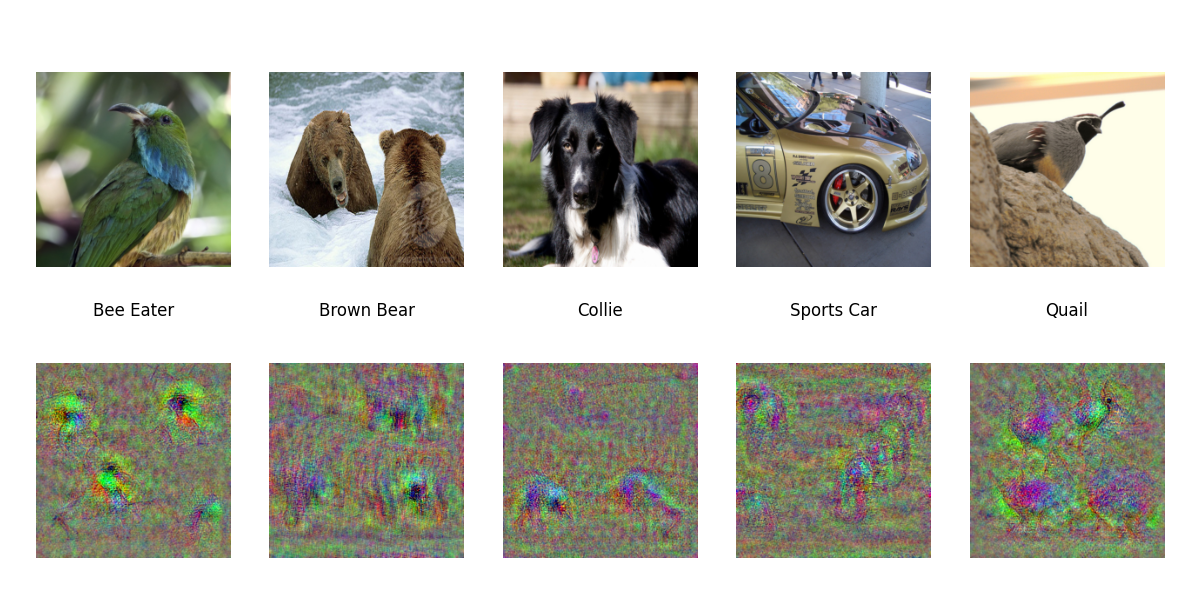
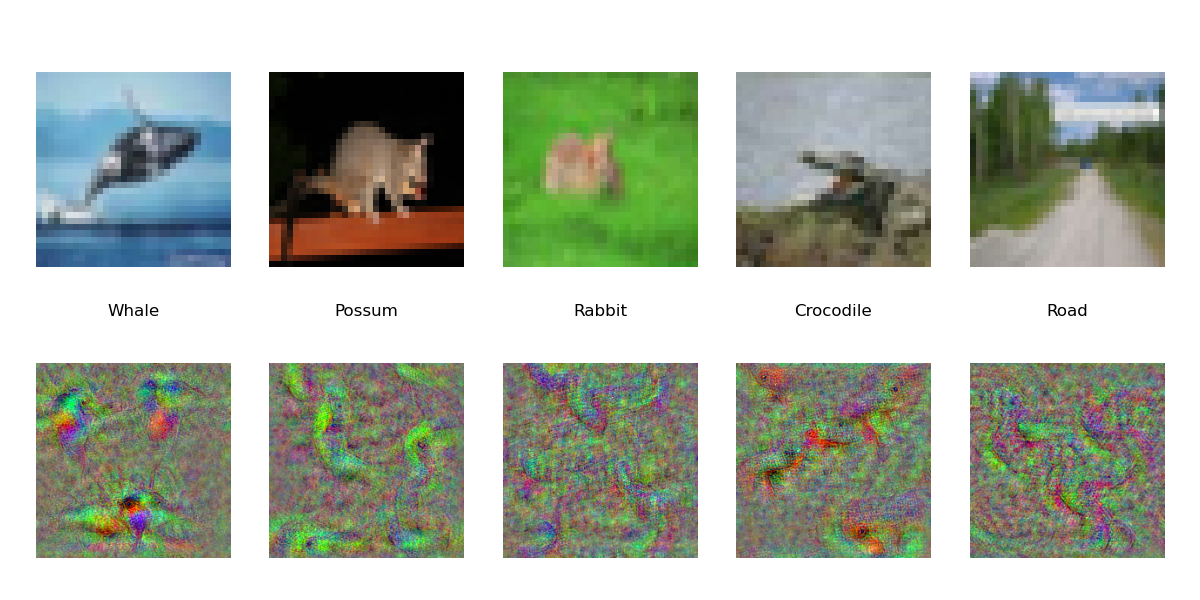
Cleanup, CIFAR downloading, CIFAR integration with viz

diff --git a/src/class_visualization.py b/src/class_visualization.py
@@ -133,47 +133,47 @@ class ClassVisualization:
                     plt.savefig('visualization/class_visualization_iter_{}'.format(t + 1), bbox_inches='tight')
         return deprocess(img.cpu())
 
-def run_program(prune_config, global_prune=False, suffix="Full", verbose=False):
-    # Check for GPU support
-    device = torch.device("cuda" if torch.cuda.is_available() else "cpu")
-    model = models.squeezenet1_1(weights='SqueezeNet1_1_Weights.DEFAULT').to(device)
-    pruner = Pruner(model, prune_config, global_prune)
-    model = pruner.prune_model()
-    for param in model.parameters():
-        param.requires_grad = False
+    def run_program(self, prune_config, global_prune=False, suffix="Full", verbose=False):
+        # Check for GPU support
+        device = torch.device("cuda" if torch.cuda.is_available() else "cpu")
+        model = models.squeezenet1_1(weights='SqueezeNet1_1_Weights.DEFAULT').to(device)
+        pruner = Pruner(model, prune_config, global_prune)
+        model = pruner.prune_model()
+        for param in model.parameters():
+            param.requires_grad = False
 
-    cv = ClassVisualization()
-    X, y, labels, class_names = load_images(num=5, deterministic=True)
-    visuals = []
-    for target in tqdm(y, desc="Creating class visualization", leave=True):
-        out = cv.create_class_visualization(target, class_names, model, generate_plots=False)
-        visuals.append(out)
+        cv = ClassVisualization()
+        X, y, labels, class_names = load_images(num=5, deterministic=True)
+        visuals = []
+        for target in tqdm(y, desc="Creating class visualization", leave=True):
+            out = cv.create_class_visualization(target, class_names, model, generate_plots=False)
+            visuals.append(out)
 
-    # Create a figure and a subplot with 2 rows and 4 columns
-    fig, ax = plt.subplots(2, 5, figsize=(12, 6))
-    fig.subplots_adjust(left=0.03, right=0.97, bottom=0.03, top=0.92, wspace=0.2, hspace=0.2)
+        # Create a figure and a subplot with 2 rows and 4 columns
+        fig, ax = plt.subplots(2, 5, figsize=(12, 6))
+        fig.subplots_adjust(left=0.03, right=0.97, bottom=0.03, top=0.92, wspace=0.2, hspace=0.2)
 
-    # Loop over the subplots and plot an image in each one
-    for i in tqdm(range(2), desc="Creating plots", leave=True):
-        for j in range(5):
-            # Load image
-            if i == 0:
-                image = X[j]
-            elif i == 1:
-                image = visuals[j]
+        # Loop over the subplots and plot an image in each one
+        for i in tqdm(range(2), desc="Creating plots", leave=True):
+            for j in range(5):
+                # Load image
+                if i == 0:
+                    image = X[j]
+                elif i == 1:
+                    image = visuals[j]
 
-            # Plot the image in the current subplot
-            ax[i, j].imshow(image, cmap='bone')
-            ax[i, j].axis('off')
+                # Plot the image in the current subplot
+                ax[i, j].imshow(image, cmap='bone')
+                ax[i, j].axis('off')
 
-            # Add a label above each image in the bottom row
-            if i == 1:
-                ax[i, j].set_title(labels[j].title(), fontsize=12, y=1.2)
+                # Add a label above each image in the bottom row
+                if i == 1:
+                    ax[i, j].set_title(labels[j].title(), fontsize=12, y=1.2)
 
-    # Save and display the subplots
-    plt.savefig("./visualization/class_viz/class_visualization_{suffix}.png")
-    if verbose:
-        plt.show()
+        # Save and display the subplots
+        plt.savefig("./visualization/class_viz/class_visualization_{suffix}.png")
+        if verbose:
+            plt.show()
 
 if __name__ == '__main__':
     # Check for GPU support

diff --git a/src/gradcam_visualization.py b/src/gradcam_visualization.py
@@ -53,6 +53,7 @@ class GradCAM():
         gradcams = []
         for x in self.X:
             # Load an input image and perform pre-processing
+            print(x.shape)
             image = Image.fromarray(x)
             x = preprocess(image).unsqueeze(0).to(device)
 
@@ -88,43 +89,43 @@ class GradCAM():
 
         return gradcams
 
-def run_program(prune_config, global_prune=False, suffix="Full", verbose=False):
-    # Retrieve images
-    X, y, labels, class_names = load_images(num=5, deterministic=True)
-    gc = GradCAM(X)
-    gradcams = gc.gradcam()
-    # Create a figure and a subplot with 2 rows and 4 columns
-    fig, ax = plt.subplots(2, 5, figsize=(12, 6))
-    fig.subplots_adjust(left=0.03, right=0.97, bottom=0.03, top=0.92, wspace=0.2, hspace=0.2)
+    def run_program(self, prune_config, global_prune=False, suffix="Full", verbose=False):
+        # Retrieve images
+        X, y, labels, class_names = load_images(num=5, deterministic=True)
+        gc = GradCAM(X)
+        gradcams = gc.gradcam()
+        # Create a figure and a subplot with 2 rows and 4 columns
+        fig, ax = plt.subplots(2, 5, figsize=(12, 6))
+        fig.subplots_adjust(left=0.03, right=0.97, bottom=0.03, top=0.92, wspace=0.2, hspace=0.2)
 
-    # Loop over the subplots and plot an image in each one
-    for i in tqdm(range(2), desc="Creating plots", leave=True):
-        for j in tqdm(range(5), desc="Processing image", leave=True):
-            # Load image
-            if i == 0:
-                item = gradcams[j]
-                image = item[0].clip(0,1)
-                ax[i, j].imshow(image, alpha=.87, vmin=.5)
-                ax[i, j].axis('off')
-            elif i == 1:
-                item = gradcams[j]
-                image = item[0].clip(0,1)
-                overlay = item[1]
+        # Loop over the subplots and plot an image in each one
+        for i in tqdm(range(2), desc="Creating plots", leave=True):
+            for j in tqdm(range(5), desc="Processing image", leave=True):
+                # Load image
+                if i == 0:
+                    item = gradcams[j]
+                    image = item[0].clip(0,1)
+                    ax[i, j].imshow(image, alpha=.87, vmin=.5)
+                    ax[i, j].axis('off')
+                elif i == 1:
+                    item = gradcams[j]
+                    image = item[0].clip(0,1)
+                    overlay = item[1]
 
-                # Plot the image in the current subplot
-                ax[i, j].imshow(image, alpha=1, vmin=100.5, cmap='twilight_shifted')
-                ax[i, j].imshow(overlay, cmap='viridis', alpha=0.779)
-                ax[i, j].axis('off')
+                    # Plot the image in the current subplot
+                    ax[i, j].imshow(image, alpha=1, vmin=100.5, cmap='twilight_shifted')
+                    ax[i, j].imshow(overlay, cmap='viridis', alpha=0.779)
+                    ax[i, j].axis('off')
 
-            # Add a label above each image in the bottom row
-            if i == 1:
-                ax[i, j].set_title(labels[j].title(), fontsize=12, y=1.2)
+                # Add a label above each image in the bottom row
+                if i == 1:
+                    ax[i, j].set_title(labels[j].title(), fontsize=12, y=1.2)
 
-    # Save and display the subplots
-    plt.savefig("./visualization/gradcam_viz/gradcam_visualization_{suffix}.png")
-    
-    if verbose:
-        plt.show()
+        # Save and display the subplots
+        plt.savefig("./visualization/gradcam_viz/gradcam_visualization_{suffix}.png")
+        
+        if verbose:
+            plt.show()
     
 if __name__ == '__main__':
 

diff --git a/src/helpers/data_utils.py b/src/helpers/data_utils.py
@@ -6,21 +6,21 @@ from matplotlib.pyplot import imread
 import platform
 import pickle
 
-def load_pickle(f):
+def load_pickle(f, enc='latin1'):
     version = platform.python_version_tuple()
     if version[0] == '2':
         return pickle.load(f)
     elif version[0] == '3':
-        return pickle.load(f, encoding='latin1')
+        return pickle.load(f, encoding=enc)
     raise ValueError("invalid python version: {}".format(version))
 
 def load_CIFAR_batch(filename):
     """ load single batch of cifar """
     with open(filename, 'rb') as f:
         datadict = load_pickle(f)
-        X = datadict['data'] 
-        Y = datadict['coarse_labels']
-        X = X.reshape(len(X), 3, 32, 32).transpose(0, 2, 3, 1).astype("float")
+        X = datadict['data']
+        Y = datadict['fine_labels']
+        X = X.reshape(len(X), 3, 32, 32).transpose(0, 2, 3, 1)
         Y = np.array(Y)
         return X, Y
 
@@ -29,7 +29,10 @@ def load_CIFAR100(ROOT):
     """ load cifar dataset for train and test """
     Xtr, Ytr = load_CIFAR_batch(os.path.join(ROOT, 'train'))
     Xte, Yte = load_CIFAR_batch(os.path.join(ROOT, 'test'))
-    return Xtr, Ytr, Xte, Yte
+    with open(os.path.join(ROOT, 'meta'), 'rb') as f:
+        meta = load_pickle(f)
+        meta = {i: val for i, val in enumerate(meta['fine_label_names'])}
+    return Xtr, Ytr, Xte, Yte, meta
 
 
 def get_CIFAR100_data(num_training=49000, num_validation=1000, num_test=1000,
@@ -41,7 +44,8 @@ def get_CIFAR100_data(num_training=49000, num_validation=1000, num_test=1000,
     """
     # Load the raw CIFAR-10 data
     cifar100_dir = './data/cifar-100-python/'
-    X_train, y_train, X_test, y_test = load_CIFAR100(cifar100_dir)
+    X_train, y_train, X_test, y_test, meta = load_CIFAR100(cifar100_dir)
+
     # Subsample the data
     mask = list(range(num_training, num_training + num_validation))
     X_val = X_train[mask]
@@ -60,16 +64,19 @@ def get_CIFAR100_data(num_training=49000, num_validation=1000, num_test=1000,
         X_val -= mean_image
         X_test -= mean_image
 
+    
+    
     # Transpose so that channels come first
-    X_train = X_train.transpose(0, 3, 1, 2).copy()
-    X_val = X_val.transpose(0, 3, 1, 2).copy()
-    X_test = X_test.transpose(0, 3, 1, 2).copy()
+    # X_train = X_train.transpose(0, 3, 1, 2).copy()
+    # X_val = X_val.transpose(0, 3, 1, 2).copy()
+    # X_test = X_test.transpose(0, 3, 1, 2).copy()
 
     # Package data into a dictionary
     return {
         'X_train': X_train, 'y_train': y_train,
         'X_val': X_val, 'y_val': y_val,
         'X_test': X_test, 'y_test': y_test,
+        'label_map': meta
     }
 
 
@@ -272,9 +279,11 @@ def load_images(num=None, deterministic=False):
         print('bash get_imagenet_val.sh')
         assert False, 'Need to download imagenet_val_25.npz'
     f = np.load(imagenet_fn, allow_pickle=True)
-    X = f['X']
-    y = f['y']
-    class_names = f['label_map'].item()
+    f = get_CIFAR100_data(subtract_mean=False)
+    X = f['X_val']
+    y = f['y_val']
+    class_names = f['label_map']
+    print(X.shape)
     labels = []
     ids = np.random.choice(25, size=5, replace=False) 
     if num is not None:

diff --git a/src/saliency_visualization.py b/src/saliency_visualization.py
@@ -100,20 +100,20 @@ class SaliencyMap:
         if verbose:
             plt.show()
 
-def run_program(prune_config, global_prune=False, suffix="Full", verbose=False):
-    # Check for GPU support
-    device = torch.device("cuda" if torch.cuda.is_available() else "cpu")
-    model = models.squeezenet1_1(weights='SqueezeNet1_1_Weights.DEFAULT').to(device)
-    pruner = Pruner(model, prune_config, global_prune)
-    model = pruner.prune_model()
-    
-    for param in model.parameters():
-        param.requires_grad = False
+    def run_program(self, prune_config, global_prune=False, suffix="Full", verbose=False):
+        # Check for GPU support
+        device = torch.device("cuda" if torch.cuda.is_available() else "cpu")
+        model = models.squeezenet1_1(weights='SqueezeNet1_1_Weights.DEFAULT').to(device)
+        pruner = Pruner(model, prune_config, global_prune)
+        model = pruner.prune_model()
+        
+        for param in model.parameters():
+            param.requires_grad = False
 
-    # Get data and instantiate SaliencyMap
-    X, y, labels, class_names = load_images(num=5, deterministic=True)
-    sm = SaliencyMap()
-    sm.show_saliency_maps(X, y, labels, model, suffix=suffix, verbose=verbose)
+        # Get data and instantiate SaliencyMap
+        X, y, labels, class_names = load_images(num=5, deterministic=True)
+        sm = SaliencyMap()
+        sm.show_saliency_maps(X, y, labels, model, suffix=suffix, verbose=verbose)
     
 if __name__ == '__main__':
     # Check for GPU support
